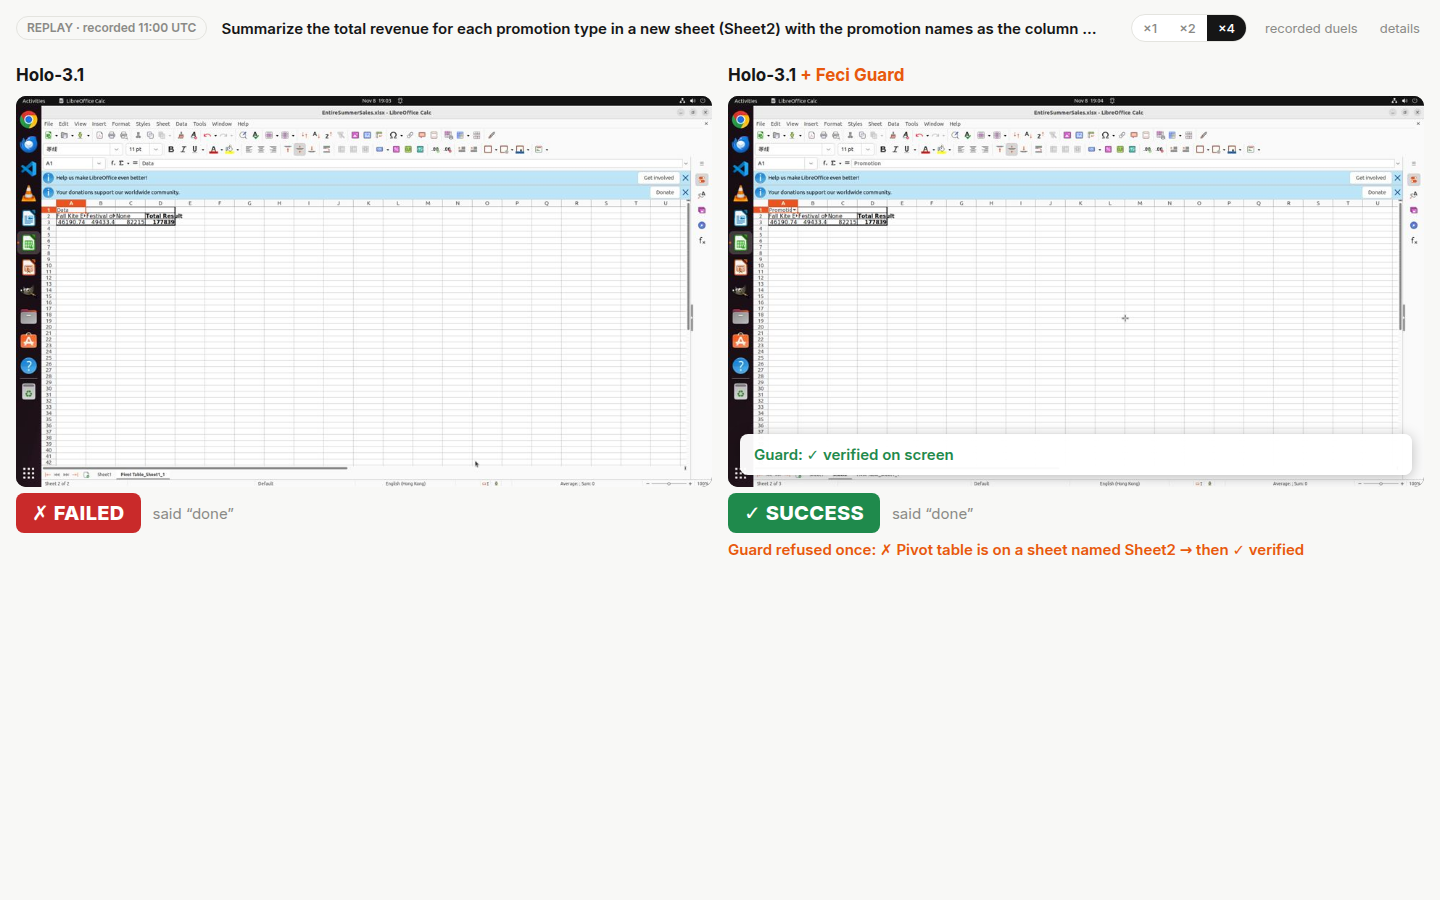
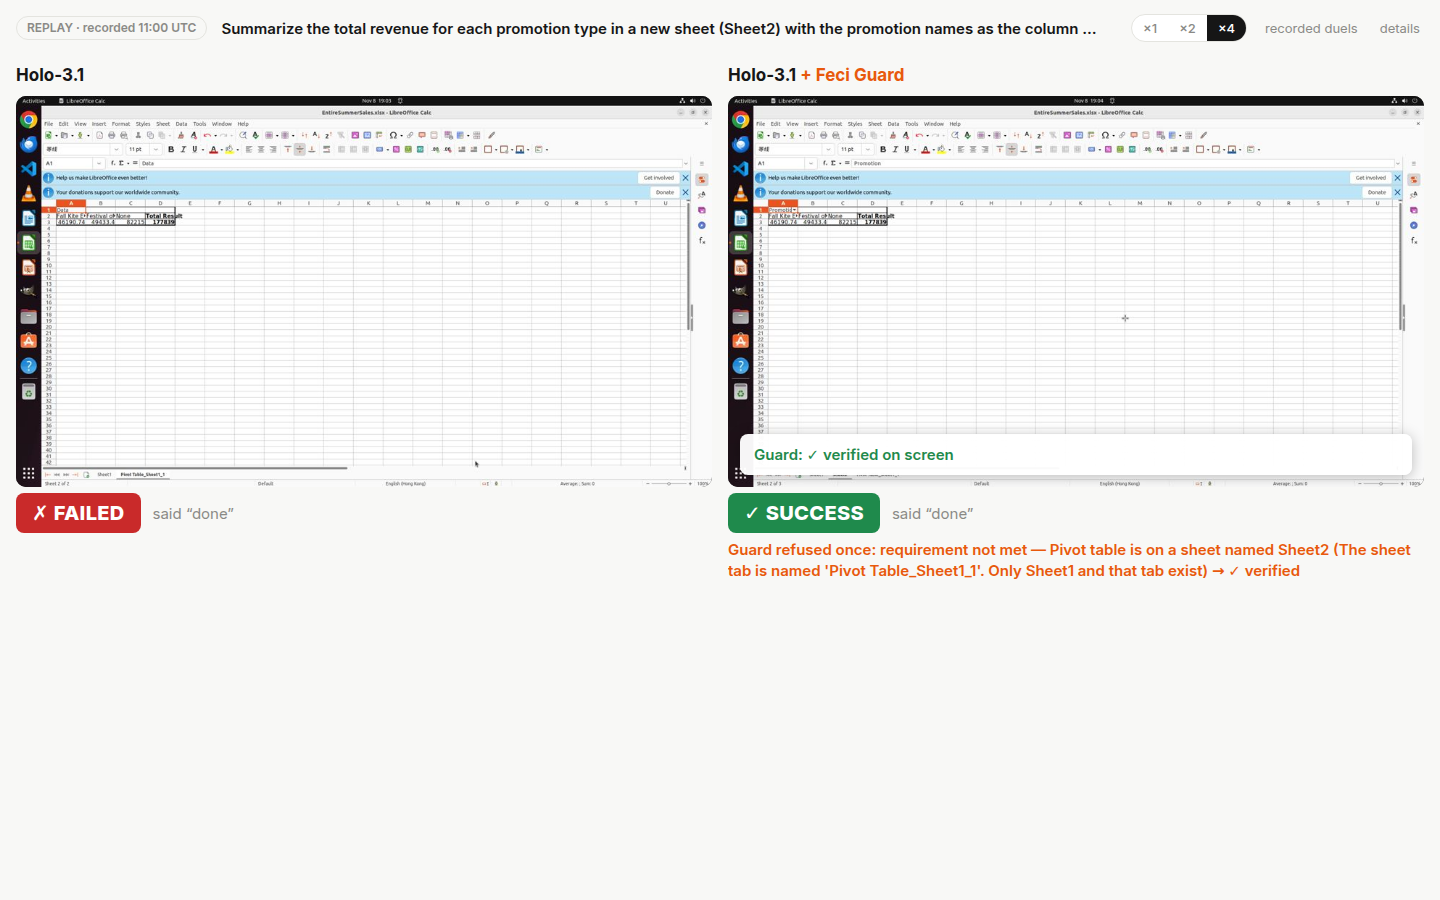
holo-neurochir duel: guard line reads 'requirement not met — <requirement> (<evidence>) → ✓ verified'; catching up loads only the last frame per side (a seek showed a stale frame)

Changed region(s): [[0.5, 0.5911, 0.9688, 0.6533]]

diff --git a/holo-neurochir/osworld/duel/index.html b/holo-neurochir/osworld/duel/index.html
@@ -27,7 +27,7 @@ body { min-height: 100vh; display: flex; flex-direction: column; }
 .btn:disabled { opacity: .35; cursor: default; }
 .link { font-size: 13px; color: var(--muted); background: none; border: 0; cursor: pointer; font-family: inherit; padding: 4px; }
 main { display: grid; grid-template-columns: 1fr 1fr; gap: 16px; padding: 8px 16px; align-content: start; }
-.gline { min-height: 24px; color: var(--accent); font-weight: 600; font-size: 15px; white-space: nowrap; overflow: hidden; text-overflow: ellipsis; }
+.gline { min-height: 24px; color: var(--accent); font-weight: 600; font-size: 15px; overflow: hidden; display: -webkit-box; -webkit-line-clamp: 2; -webkit-box-orient: vertical; }
 @media (max-width: 900px) { main { grid-template-columns: 1fr; } }
 .who { font-weight: 700; font-size: 17px; margin: 0 0 8px; }
 .who .g { color: var(--accent); }
@@ -140,13 +140,18 @@ function showImg(side, file) {  // swap only once loaded (no blank flash), and n
   pre.src = url;
 }
 function state(side, text) { if (!S[side].end) $('#' + side + ' .state').textContent = text; }
+let batch = null;  // catching up on many events at once: only the last frame of each side is loaded
+function catchUp(fn) { batch = {}; try { fn(); } finally { const b = batch; batch = null; for (const side in b) showImg(side, b[side]); } }
 let toastTimer = null, G = { refusals: 0, last: '' };
 function guardLine(e) {  // the refused requirement stays visible under the right screen, to the end
   const bad = (e.requirements || []).find(r => r.mark === '✗');
   const times = n => n === 1 ? 'once' : n === 2 ? 'twice' : n + ' times';
-  if (e.decision === 'refused') { G.refusals++; G.last = bad ? bad.text : 'not done';
-    $('#gline').textContent = `Guard refused ${times(G.refusals)}: ✗ ${G.last}`; }
-  else if (G.refusals) $('#gline').textContent = `Guard refused ${times(G.refusals)}: ✗ ${G.last} → then ${e.decision === 'passed_complete' ? '✓ verified' : '✓ accepted'}`;
+  if (e.decision === 'refused') { G.refusals++;
+    G.last = bad ? bad.text + (bad.evidence ? ` (${bad.evidence.replace(/\.$/, '')})` : '') : 'task not complete'; }
+  else if (!G.refusals) return;
+  $('#gline').textContent = `Guard refused ${times(G.refusals)}: requirement not met — ${G.last}`
+    + (e.decision === 'refused' ? '' : e.decision === 'passed_complete' ? ' → ✓ verified' : ' → accepted');
+  $('#gline').title = $('#gline').textContent;
 }
 function toast(e, speed) {
   const t = $('#right .toast'), bad = (e.requirements || []).find(r => r.mark === '✗');
@@ -158,7 +163,7 @@ function toast(e, speed) {
 }
 function apply(side, e, speed) {
   const s = S[side], hist = side === 'left' ? '#histL' : '#histR';
-  if (e.kind === 'frame' && e.file) showImg(side, e.file);
+  if (e.kind === 'frame' && e.file) { if (batch) batch[side] = e.file; else showImg(side, e.file); }
   else if (e.kind === 'step') {
     s.step = e.i; state(side, `step ${e.i} · ${VERB[e.tool] ? VERB[e.tool] + '…' : e.tool}`);
     $(hist).insertAdjacentHTML('beforeend', `<li>${esc(e.action)}</li>`);
@@ -195,7 +200,7 @@ async function poll() {
     if (r.status === 404) { duelId = null; meta = null; return; }
     const d = await r.json();
     if (!meta || meta.id !== d.meta.id) setup(d.meta);
-    for (const side of ['left', 'right']) { d[side].forEach(e => apply(side, e, 1)); off[side] = d[side + '_n']; }
+    catchUp(() => { for (const side of ['left', 'right']) { d[side].forEach(e => apply(side, e, 1)); off[side] = d[side + '_n']; } });
     running = d.running; mode();
     $('#run').disabled = running; for (const b of ['#stopL', '#stopR', '#stopAll']) $(b).disabled = !running;
   } catch (e) { /* network blip: next poll */ } finally { busy = false; }
@@ -242,7 +247,7 @@ async function loadReplay() {
   // skip the VM boot and the 60 s task settle: start just before the first model call; ?t=<s> seeks
   const first = R.ev.find(([, e]) => e.kind === 'phase' && e.phase === 'thinking');
   const start = P.get('t') ? R.meta.t0 + +P.get('t') : REAL ? R.meta.t0 : first ? first[1].t - 1 : R.meta.t0;
-  while (R.i < R.ev.length && R.ev[R.i][1].t < start) { const [s, e] = R.ev[R.i++]; apply(s, e, R.speed); }
+  catchUp(() => { while (R.i < R.ev.length && R.ev[R.i][1].t < start) { const [s, e] = R.ev[R.i++]; apply(s, e, R.speed); } });
   R.clock = start - R.meta.t0;
   setInterval(tick, 100);  // timer, not requestAnimationFrame: rAF stops in background tabs and some browsers
 }
